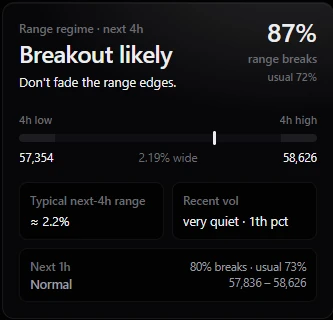
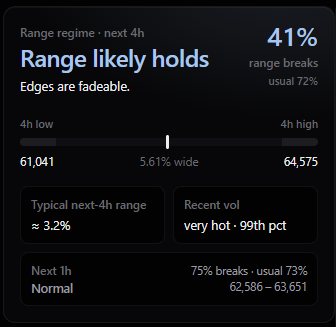
Landing: sharper range regime card (Range likely holds, lossless)
Claude-Session: https://claude.ai/code/session_01S3tXHcRnMNJhwPRUQR9Ekb

diff --git a/components/Features.tsx b/components/Features.tsx
@@ -15,9 +15,9 @@ const FEATURES: Feature[] = [
     title: "Will the range break or hold?",
     body: "Mako reads the last 4 hours of price and volatility on any Hyperliquid perp and tells you how likely the range is to break, against how often it usually does.",
     img: "/f-regime.webp",
-    w: 333,
-    h: 320,
-    alt: "Mako range regime card on BTC reading Breakout likely: 87% chance the 4h range breaks, against a usual 72%",
+    w: 336,
+    h: 327,
+    alt: "Mako range regime card on BTC reading Range likely holds: 41% chance the 4h range breaks, against a usual 72%",
   },
   {
     title: "Every perp, screened for the setups that matter.",
